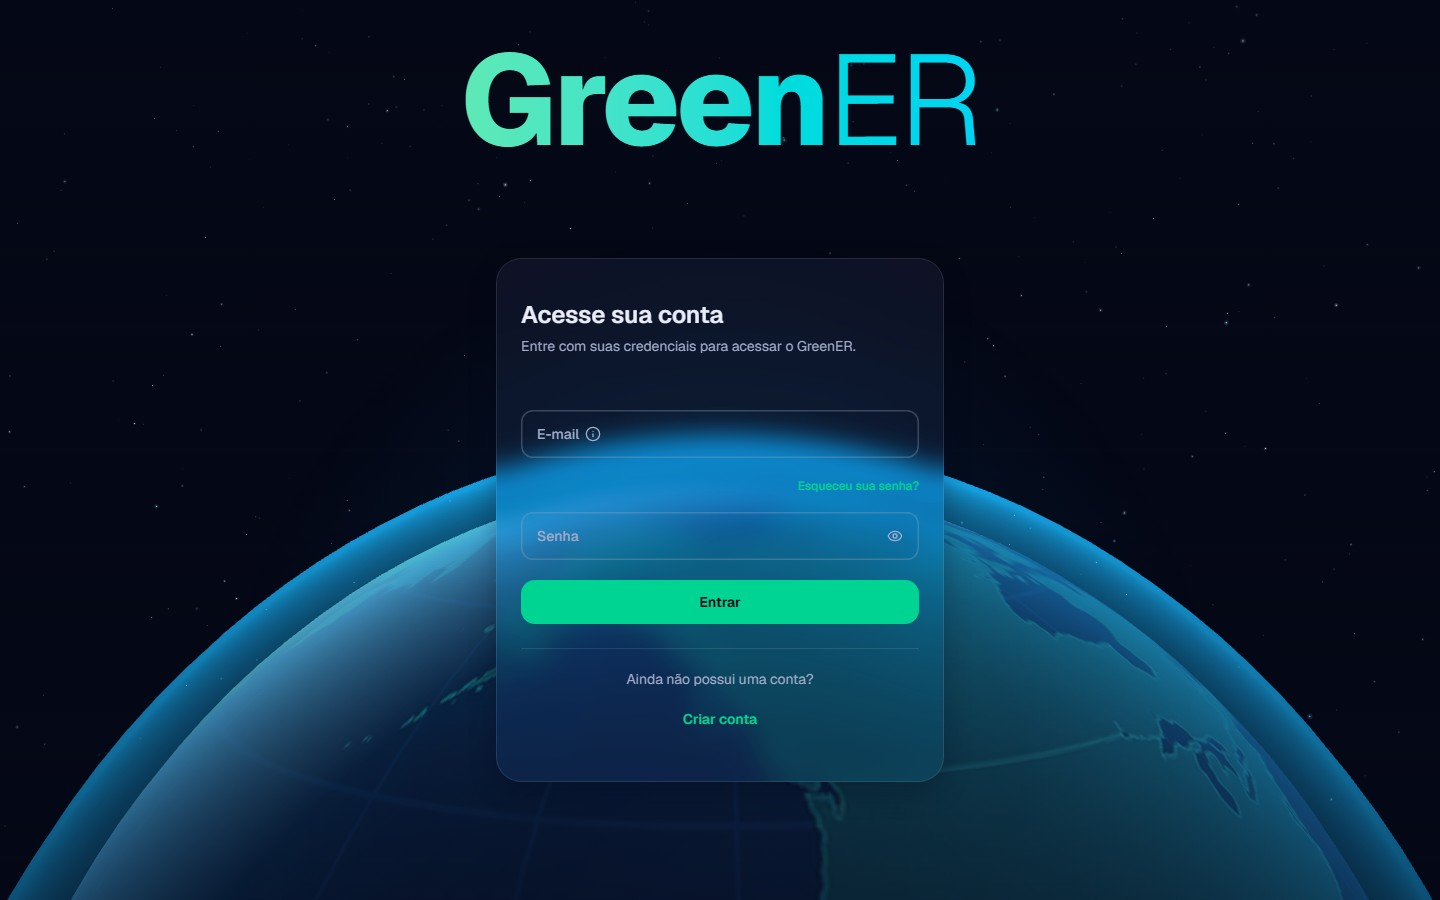
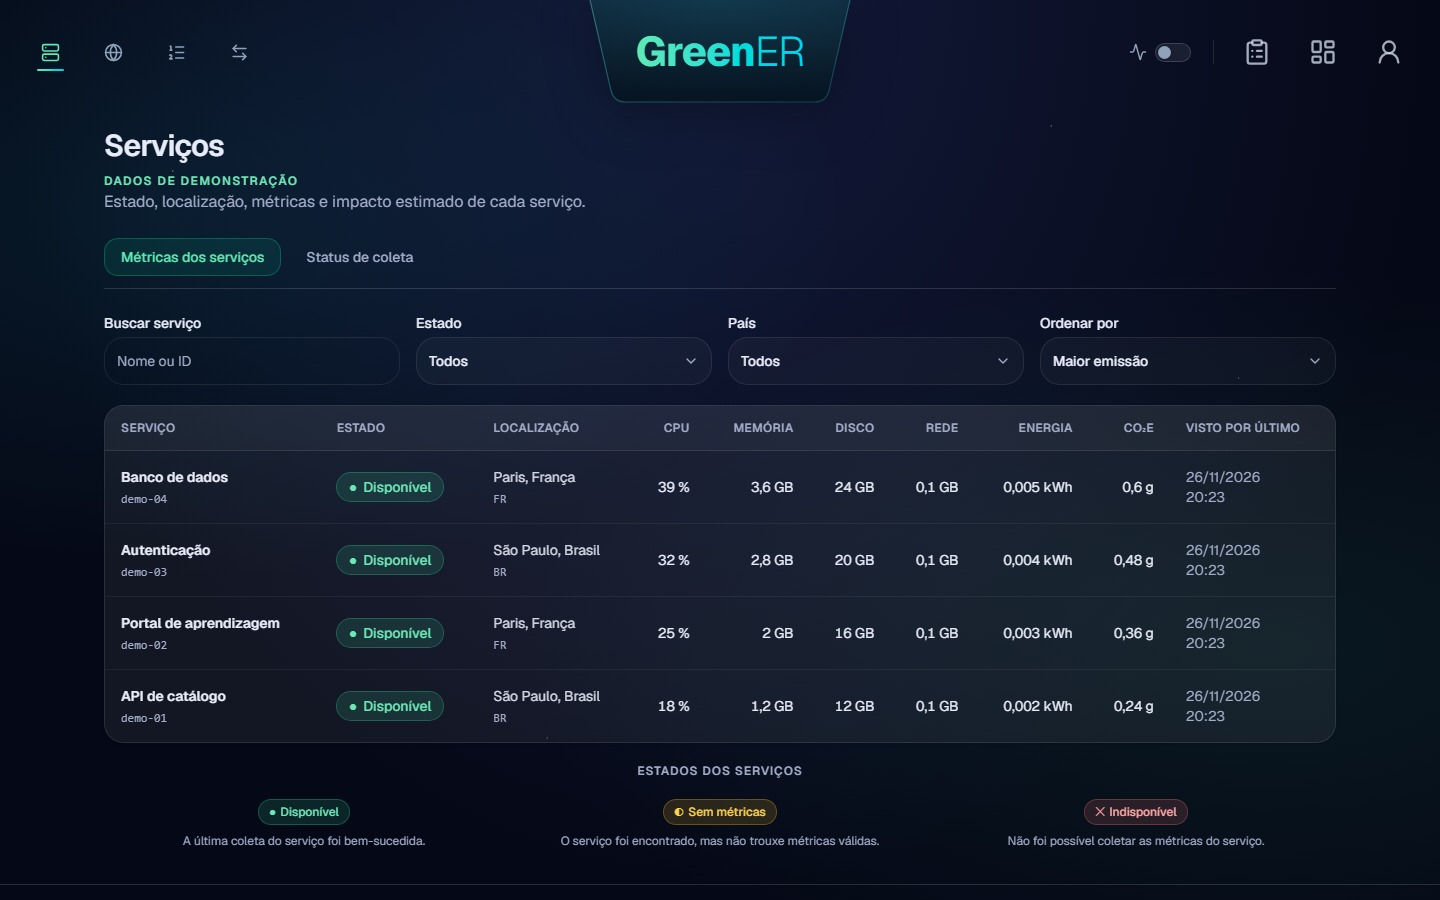
style(portfolio): melhora apresentação dos projetos e layout responsivo

diff --git a/docs/css/style.css b/docs/css/style.css
@@ -293,7 +293,7 @@ body {
     font-size: 2.75rem;
     font-weight: 500;
     letter-spacing: -0.02em;
-    color: var(--text-secondary);
+    color: var(--accent-text);
     margin-bottom: 24px;
 }
 
@@ -319,6 +319,12 @@ body {
     display: flex;
     gap: 16px;
     flex-wrap: wrap;
+}
+
+.hero-actions .btn-primary {
+    padding: 14px 24px;
+    font-weight: 650;
+    box-shadow: 0 4px 16px rgba(var(--accent-rgb), 0.18);
 }
 
 /* Container da foto de perfil */
@@ -710,14 +716,15 @@ body {
 
 .projects-grid {
     display: grid;
-    grid-template-columns: repeat(auto-fill, minmax(320px, 1fr));
-    gap: 32px;
+    grid-template-columns: repeat(3, minmax(0, 1fr));
+    gap: 24px;
 }
 
 .project-card {
+    min-width: 0;
     background: var(--surface);
     border: 1px solid var(--border-color);
-    border-radius: var(--radius-md);
+    border-radius: var(--radius-lg);
     overflow: hidden;
     box-shadow: var(--shadow-sm);
     display: flex;
@@ -730,6 +737,11 @@ body {
     transform: translateY(-4px);
     border-color: var(--border-hover);
     box-shadow: var(--shadow-lg);
+}
+
+.project-card:focus-visible {
+    outline: 3px solid var(--accent);
+    outline-offset: 4px;
 }
 
 .project-image-container {
@@ -745,6 +757,7 @@ body {
     width: 100%;
     height: 100%;
     object-fit: cover;
+    object-position: top center;
     transition: var(--transition-slow);
 }
 
@@ -803,14 +816,15 @@ body {
 }
 
 .project-card-body {
-    padding: 28px;
+    padding: 22px;
     display: flex;
     flex-direction: column;
     flex-grow: 1;
 }
 
 .project-card-title {
-    font-size: 1.5rem;
+    font-size: 1.25rem;
+    line-height: 1.35;
     font-weight: 600;
     margin-bottom: 8px;
     color: var(--text-primary);
@@ -818,12 +832,12 @@ body {
 }
 
 .project-card-description {
-    font-size: 1.1rem;
+    font-size: 0.95rem;
     color: var(--text-secondary);
     line-height: 1.5;
     margin-bottom: 20px;
     display: -webkit-box;
-    -webkit-line-clamp: 2;
+    -webkit-line-clamp: 3;
     -webkit-box-orient: vertical;
     overflow: hidden;
 }
@@ -831,8 +845,9 @@ body {
 .project-card-footer {
     margin-top: auto;
     display: flex;
-    justify-content: space-between;
-    align-items: center;
+    flex-direction: column;
+    align-items: flex-start;
+    gap: 18px;
     border-top: 1px solid var(--border-color);
     padding-top: 16px;
 }
@@ -840,20 +855,35 @@ body {
 .project-card-tags {
     display: flex;
     gap: 6px;
-    overflow: hidden;
-    white-space: nowrap;
-    mask-image: linear-gradient(90deg, #000 70%, transparent 100%);
-    -webkit-mask-image: linear-gradient(to right, #000 75%, transparent 100%);
-    flex-grow: 1;
+    flex-wrap: wrap;
 }
 
 .project-card-tag {
-    font-size: 0.75rem;
-    font-family: var(--font-mono);
-    color: var(--text-muted);
+    font-size: 0.8rem;
+    font-weight: 500;
+    line-height: 1.4;
+    padding: 5px 9px;
+    border-radius: var(--radius-sm);
+    color: var(--accent-text);
+    background: var(--accent-muted);
+}
+
+.project-card-tag-more {
+    color: var(--text-secondary);
+    background: var(--badge-bg);
+}
+
+.project-card-action {
+    display: inline-flex;
+    align-items: center;
+    gap: 10px;
+    font-size: 0.9rem;
+    font-weight: 650;
+    color: var(--accent-text);
 }
 
 .project-card-arrow {
+    display: inline-flex;
     color: var(--accent);
     font-weight: bold;
     font-size: 1.1rem;
@@ -862,6 +892,20 @@ body {
 
 .project-card:hover .project-card-arrow {
     transform: translateX(3px);
+}
+
+@media (prefers-reduced-motion: reduce) {
+    .project-card,
+    .project-image,
+    .project-card-arrow {
+        transition: none;
+    }
+
+    .project-card:hover,
+    .project-card:hover .project-image,
+    .project-card:hover .project-card-arrow {
+        transform: none;
+    }
 }
 
 /* --- ACADEMIC / TIMELINE --- */

diff --git a/docs/js/modules/render.js b/docs/js/modules/render.js
@@ -393,10 +393,10 @@ export function filterAndRenderProjects() {
                     <p class="project-card-description">${escapeHtml(project.description)}</p>
                     <div class="project-card-footer">
                         <div class="project-card-tags">
-                            ${cardTags.map((t) => `<span class="project-card-tag">#${escapeHtml(t)}</span>`).join(" ")}
-                            ${remainingTagsCount > 0 ? `<span class="project-card-tag">+${remainingTagsCount}</span>` : ""}
+                            ${cardTags.map((t) => `<span class="project-card-tag">${escapeHtml(t)}</span>`).join(" ")}
+                            ${remainingTagsCount > 0 ? `<span class="project-card-tag project-card-tag-more" aria-label="Mais ${remainingTagsCount} tecnologias">+${remainingTagsCount}</span>` : ""}
                         </div>
-                        <span class="project-card-arrow" aria-hidden="true">${ICONS.arrowRight}</span>
+                        <span class="project-card-action" aria-hidden="true">Ver projeto <span class="project-card-arrow">${ICONS.arrowRight}</span></span>
                     </div>
                 </div>
             </article>

diff --git a/docs/js/data.js b/docs/js/data.js
@@ -22,10 +22,10 @@ export const portfolioData = {
     /* --- Dados pessoais exibidos no herói, contato e rodapé --- */
     personal: {
         name: "Pedro Henrique",
-        role: "Desenvolvedor de Software",
+        role: "Desenvolvedor Back-end",
         location: "Jacareí, SP",
         description:
-            "Estudante de Desenvolvimento de Software Multiplataforma na Fatec Jacareí. Apaixonado por solucionar problemas através de código limpo, arquitetura escalável e interfaces elegantes.",
+            "Desenvolvo APIs e aplicações com TypeScript, Node.js e PostgreSQL. Nos projetos da Fatec Jacareí e nos meus projetos pessoais, transformo problemas em soluções com código organizado e trabalho em equipe.",
         // Deixe "" para testar o fallback de iniciais ("PH").
         profileImage: "assets/images/profile/profile.png",
         github: "https://github.com/phjsilva",

diff --git a/docs/css/variables.css b/docs/css/variables.css
@@ -6,7 +6,7 @@
     --font-mono: ui-monospace, SFMono-Regular, Menlo, Monaco, Consolas, "Liberation Mono", "Courier New", monospace;
 
     /* Espaçamentos e tamanhos */
-    --max-width: 1040px;
+    --max-width: 1160px;
     --header-height: 80px;
 
     /* Raios de borda */

diff --git a/docs/css/responsive.css b/docs/css/responsive.css
@@ -32,6 +32,10 @@
     .skills-grid {
         grid-template-columns: repeat(auto-fit, minmax(240px, 1fr));
     }
+
+    .projects-grid {
+        grid-template-columns: repeat(2, minmax(0, 1fr));
+    }
 }
 
 /* Celulares (até 768px) */
